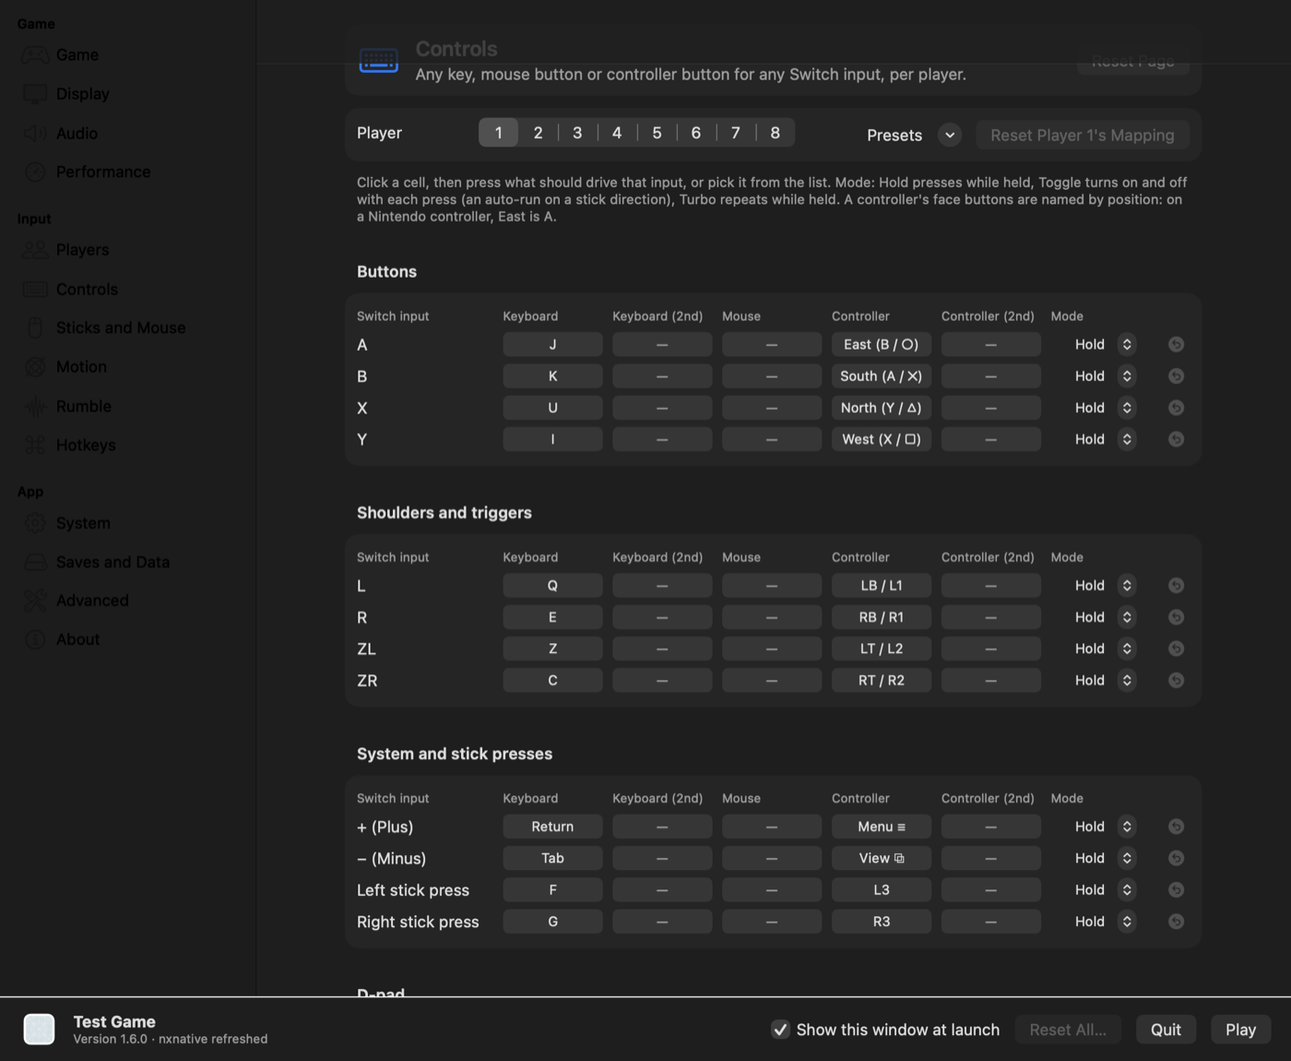
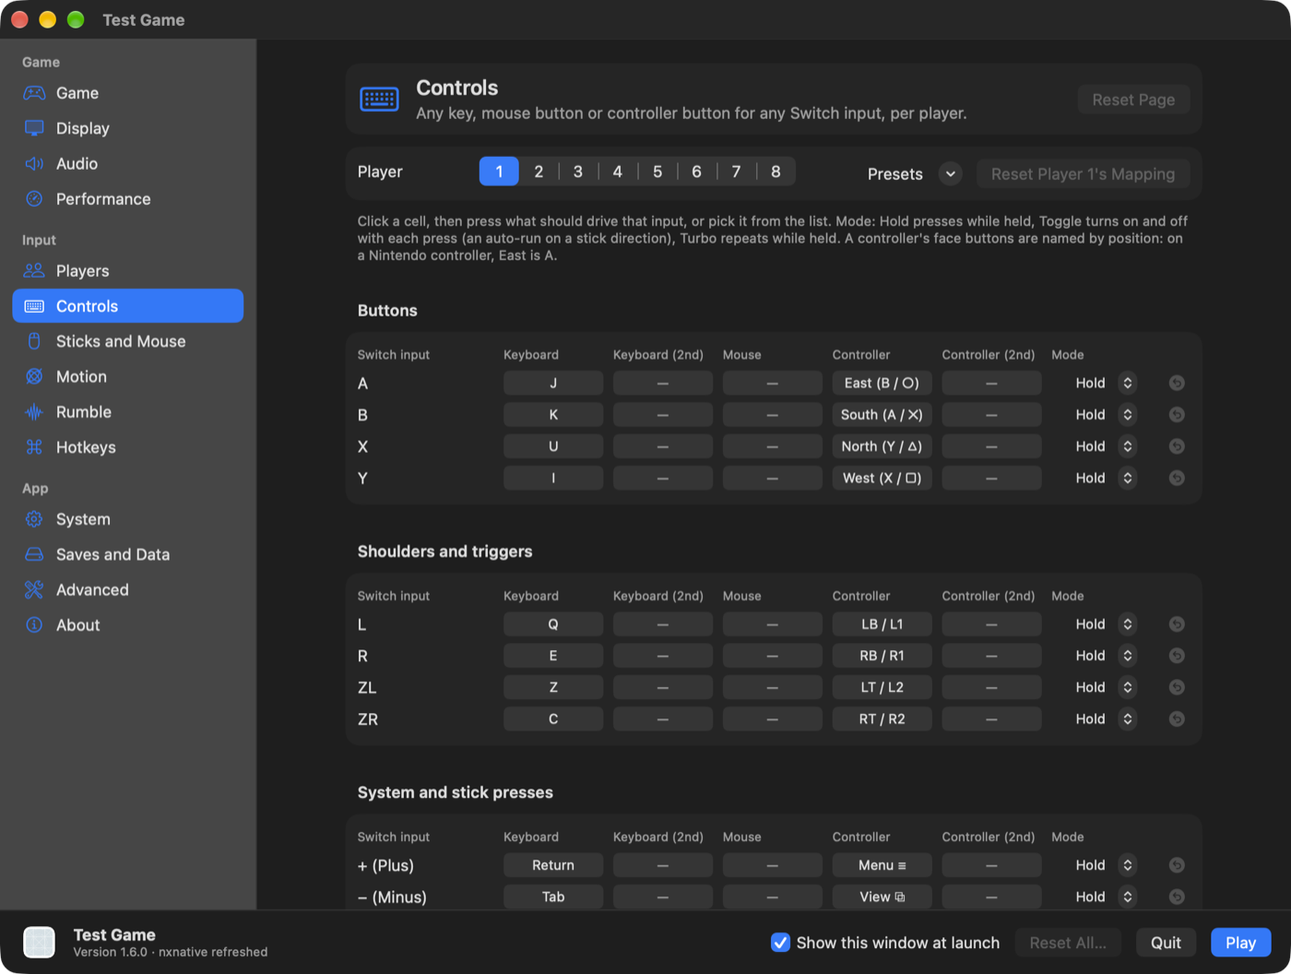
Mac settings window: a sidebar that works, and fixes found driving the real window
- The sidebar is a fixed column of buttons. The NavigationSplitView list never
  selected a page (its rows were tagged Optional(page), which matches no Page
  selection) and put a toolbar on the AppKit window, whose background covered
  the page when the sidebar was hidden. The hosting view bridges no toolbar.
- Return in a one-line text field ends the typing instead of starting the game.
- Binding popover: recording starts with the focus off the search field, typing
  in the search field searches, a click on the prompt records again, Cancel
  works for keys, and the first key, button or scroll is the binding (fast keys
  bound the last one).
- The page column can no longer push the sidebar out of a narrow window; the
  minimum width is 980 points, which every page fits.
- The window's paths follow $HOME as launcher.c's do, so a test's home is used
  instead of the account's.
- The controller menu has no empty separator without a connected controller.
- launcher_layout_check clicks down the sidebar and checks for no toolbar (both
  fail on the old window); env_switches.tsv lists DM_EXTRA_ENV; README
  screenshots are captures of the real window.

diff --git a/dm/mac/Launcher.swift b/dm/mac/Launcher.swift
@@ -21,24 +21,16 @@ struct LauncherView: View {
     @State private var player = 0
     @State private var confirmReset = false
 
-    private var page: Binding<Page?> { Binding(get: { Page(rawValue: pageName) ?? .game }, set: { pageName = ($0 ?? .game).rawValue }) }
     private var current: Page { Page(rawValue: pageName) ?? .game }
 
+    // A fixed sidebar beside the page, not a NavigationSplitView: in this AppKit window that puts a toolbar over the page, and its sidebar can be hidden with no way back
     var body: some View {
         VStack(spacing: 0) {
-            NavigationSplitView {
-                List(selection: page) {
-                    ForEach(Page.sidebar, id: \.0) { section in
-                        Section(section.0) {
-                            ForEach(section.1) { p in
-                                Label(p.title, systemImage: p.symbol).tag(Optional(p))
-                                    .badge(pageChanged(p) ? Text("•") : nil)
-                            }
-                        }
-                    }
-                }
-                .navigationSplitViewColumnWidth(min: 190, ideal: 210, max: 260)
-            } detail: {
+            HStack(spacing: 0) {
+                Sidebar(current: current, changed: pageChanged) { pageName = $0.rawValue }
+                    .frame(width: 210)
+                    .layoutPriority(1)
+                Divider()
                 Form {
                     Section {
                         HStack(spacing: 12) {
@@ -57,6 +49,8 @@ struct LauncherView: View {
                 }
                 .formStyle(.grouped)
                 .id(current)
+                .frame(minWidth: 0, maxWidth: .infinity, maxHeight: .infinity)   // a page wider than the window scrolls in its column, never pushes the sidebar out
+                .clipped()
             }
             Divider()
             HStack(spacing: 12) {
@@ -75,7 +69,7 @@ struct LauncherView: View {
             .padding(.horizontal, 16).padding(.vertical, 10)
             .background(Color(nsColor: .windowBackgroundColor))
         }
-        .frame(minWidth: 900, minHeight: 560)
+        .frame(minWidth: 980, minHeight: 560)
         .onChange(of: m.values) { _, _ in m.persist() }
         .alert("Reset every setting?", isPresented: $confirmReset) {
             Button("Reset All", role: .destructive) { m.reset(); input.reset(); text.reset() }
@@ -166,6 +160,51 @@ struct LauncherView: View {
             }
         }
     }
+}
+
+/// The page list: a button per page on the sidebar material. Not a List: its selection style goes stale in this window (the row selected at the start stays bold)
+struct Sidebar: View {
+    let current: Page
+    let changed: (Page) -> Bool
+    let pick: (Page) -> Void
+    @State private var hover: Page?
+    var body: some View {
+        ScrollView {
+            VStack(alignment: .leading, spacing: 1) {
+                ForEach(Page.sidebar, id: \.0) { section in
+                    Text(section.0).font(.subheadline.weight(.semibold)).foregroundStyle(.secondary)
+                        .padding(.leading, 8).padding(.top, section.0 == Page.sidebar[0].0 ? 2 : 12).padding(.bottom, 3)
+                        .accessibilityAddTraits(.isHeader)
+                    ForEach(section.1) { p in row(p) }
+                }
+            }
+            .padding(.horizontal, 10).padding(.vertical, 10)
+        }
+        .scrollIndicators(.never)
+        .background(SidebarMaterial().ignoresSafeArea())
+    }
+    private func row(_ p: Page) -> some View {
+        let on = p == current
+        return Button { pick(p) } label: {
+            HStack(spacing: 8) {
+                Image(systemName: p.symbol).frame(width: 20).foregroundStyle(on ? Color.white : Color.accentColor)
+                Text(p.title).foregroundStyle(on ? Color.white : Color.primary).lineLimit(1)
+                Spacer(minLength: 4)
+                if changed(p) { Circle().fill(on ? Color.white : Color.accentColor).frame(width: 6, height: 6).help("Changed from the defaults") }
+            }
+            .padding(.horizontal, 8).frame(height: 28).frame(maxWidth: .infinity, alignment: .leading)
+            .background(RoundedRectangle(cornerRadius: 7).fill(on ? Color.accentColor : hover == p ? Color.primary.opacity(0.08) : Color.clear))
+            .contentShape(Rectangle())
+        }
+        .buttonStyle(.plain)
+        .onHover { hover = $0 ? p : (hover == p ? nil : hover) }
+        .accessibilityLabel(changed(p) ? "\(p.title), changed" : p.title)
+        .accessibilityAddTraits(on ? .isSelected : [])
+    }
+}
+private struct SidebarMaterial: NSViewRepresentable {
+    func makeNSView(context: Context) -> NSVisualEffectView { let v = NSVisualEffectView(); v.material = .sidebar; v.blendingMode = .behindWindow; v.state = .followsWindowActiveState; return v }
+    func updateNSView(_ v: NSVisualEffectView, context: Context) {}
 }
 
 /// Cloud saves: a folder the save is synced through (dm/host/save_sync.h), the one the iPhone app picks in its launcher's Cloud saves section. It is kept in this app's
@@ -340,6 +379,19 @@ struct AboutSection: View {
     }
 }
 
+// Return in a one-line text field (the player name, a profile's name) ends the editing there: a text field otherwise hands Return on to the window's default button, Play,
+// and the game starts from a name being typed. Return anywhere else still plays, and the multi-line box takes it as a new line
+private final class LauncherWindow: NSWindow {
+    override func sendEvent(_ e: NSEvent) {
+        if e.type == .keyDown, e.keyCode == 36 || e.keyCode == 76, e.modifierFlags.intersection([.command, .option, .control, .shift]).isEmpty,
+           let t = firstResponder as? NSTextView, t.isFieldEditor {
+            makeFirstResponder(nil)
+            return
+        }
+        super.sendEvent(e)
+    }
+}
+
 private final class Launcher: NSObject, NSApplicationDelegate, NSWindowDelegate {
     let model: LauncherModel
     let input = InputStore()
@@ -362,13 +414,15 @@ private final class Launcher: NSObject, NSApplicationDelegate, NSWindowDelegate 
         edit.addItem(withTitle: "Select All", action: #selector(NSText.selectAll(_:)), keyEquivalent: "a")
         editItem.submenu = edit; menu.addItem(editItem)
         NSApp.mainMenu = menu
-        let w = NSWindow(contentRect: NSRect(x: 0, y: 0, width: 1060, height: 720), styleMask: [.titled, .closable, .miniaturizable, .resizable], backing: .buffered, defer: false)
+        let w = LauncherWindow(contentRect: NSRect(x: 0, y: 0, width: 1060, height: 720), styleMask: [.titled, .closable, .miniaturizable, .resizable], backing: .buffered, defer: false)
         w.title = name; w.isReleasedWhenClosed = false; w.delegate = self
-        w.contentMinSize = NSSize(width: 900, height: 560)
+        w.contentMinSize = NSSize(width: 980, height: 560)
         w.setFrameAutosaveName("nxnative refreshed settings")
         window = w
         if w.frame.origin == .zero, let screen = w.screen ?? NSScreen.main { w.setFrameTopLeftPoint(NSPoint(x: screen.visibleFrame.midX - w.frame.width / 2, y: screen.visibleFrame.maxY - 40)) }
-        w.contentView = NSHostingView(rootView: LauncherView(m: model, input: input, text: text, done: { [weak self] in self?.finish($0) }))
+        let host = NSHostingView(rootView: LauncherView(m: model, input: input, text: text, done: { [weak self] in self?.finish($0) }))
+        host.sceneBridgingOptions = []   // the window keeps its own title and gets no toolbar from SwiftUI
+        w.contentView = host
         // no activation and no ordering in front of another app's windows: LaunchServices activates an app opened from Finder or the Dock (applicationDidBecomeActive), open -g does not
         if NSApp.isActive { w.makeKeyAndOrderFront(nil) } else { w.orderBack(nil) }
     }

diff --git a/dm/mac/InputViews.swift b/dm/mac/InputViews.swift
@@ -92,8 +92,11 @@ struct PlayersPage: View {
                             Text("None").tag("none")
                             Divider()
                             ForEach(1...8, id: \.self) { n in Text("The \(Self.ordinal(n)) controller connected").tag("index:\(n)") }
-                            Divider()
-                            ForEach(names(including: p.controller), id: \.self) { n in Text(n).tag("name:" + n) }
+                            let named = names(including: p.controller)
+                            if !named.isEmpty {
+                                Divider()
+                                ForEach(named, id: \.self) { n in Text(n).tag("name:" + n) }
+                            }
                         }
                         .labelsHidden().disabled(input.config.merge).fixedSize()
                         ResetButton(enabled: p.keyboard != def.keyboard || p.mouse != def.mouse || p.controller != def.controller) {
@@ -161,8 +164,10 @@ final class Recorder: ObservableObject {
         switch src {
         case .key:
             monitor = NSEvent.addLocalMonitorForEvents(matching: [.keyDown, .flagsChanged]) { [weak self] e in
-                if e.type == .flagsChanged { if KeyNames.modifierDown(e) { self?.result = .key(Int(e.keyCode)) }; return nil }
-                if !e.isARepeat { self?.result = .key(Int(e.keyCode)) }
+                if let t = e.window?.firstResponder as? NSTextView, t.isFieldEditor { return e }   // typing in the search field searches
+                guard let self, self.result == nil else { return nil }   // the first key is the binding; keys after it, while the popover closes, go nowhere
+                if e.type == .flagsChanged { if KeyNames.modifierDown(e) { self.result = .key(Int(e.keyCode)) }; return nil }
+                if !e.isARepeat { self.result = .key(Int(e.keyCode)) }
                 return nil
             }
         case .pad:
@@ -188,15 +193,17 @@ struct MouseCaptureView: NSViewRepresentable {
     let report: (String) -> Void
     final class V: NSView {
         var report: ((String) -> Void)?
-        override func mouseDown(with e: NSEvent) { report?("left") }
-        override func rightMouseDown(with e: NSEvent) { report?("right") }
+        private var reported = false   // the first button or scroll is the binding, not the rest of a double click or of a scroll's events
+        private func send(_ code: String) { if !reported { reported = true; report?(code) } }
+        override func mouseDown(with e: NSEvent) { send("left") }
+        override func rightMouseDown(with e: NSEvent) { send("right") }
         override func otherMouseDown(with e: NSEvent) {
             let n = e.buttonNumber
-            if n == 2 { report?("middle") } else if n >= 3 && n <= 7 { report?("button\(n + 1)") }
+            if n == 2 { send("middle") } else if n >= 3 && n <= 7 { send("button\(n + 1)") }
         }
         override func scrollWheel(with e: NSEvent) {
             let s: CGFloat = e.isDirectionInvertedFromDevice ? -1 : 1, dy = e.scrollingDeltaY * s, dx = e.scrollingDeltaX * s
-            if abs(dy) > 0.5 { report?(dy > 0 ? "wheel_up" : "wheel_down") } else if abs(dx) > 0.5 { report?(dx > 0 ? "wheel_left" : "wheel_right") }
+            if abs(dy) > 0.5 { send(dy > 0 ? "wheel_up" : "wheel_down") } else if abs(dx) > 0.5 { send(dx > 0 ? "wheel_left" : "wheel_right") }
         }
         override func acceptsFirstMouse(for event: NSEvent?) -> Bool { true }
     }
@@ -212,12 +219,18 @@ struct BindingEditor: View {
     let cancel: () -> Void
     @StateObject private var rec = Recorder()
     @State private var search = ""
+    @FocusState private var searching: Bool
     var body: some View {
         VStack(alignment: .leading, spacing: 10) {
             Text(title).font(.headline)
             Group {
                 switch source {
-                case .key: prompt("Press a key now", "Any key, including Escape and the modifier keys on their own.")
+                case .key:   // keys record unless the search field has the focus; a click on the prompt takes it back
+                    if searching {
+                        Button { searching = false } label: { prompt("Typing searches the list", "Click here to record a key instead.", busy: false) }.buttonStyle(.plain)
+                    } else {
+                        prompt("Press a key now", "Any key, including Escape and the modifier keys on their own.")
+                    }
                 case .pad: prompt("Press a button or move a stick on a controller", GCController.controllers().isEmpty ? "No controller is connected: pick from the list below." : "Any connected controller.")
                 case .mouse:
                     ZStack {
@@ -232,7 +245,7 @@ struct BindingEditor: View {
                     .frame(height: 90)
                 }
             }
-            TextField("Search", text: $search).textFieldStyle(.roundedBorder)
+            TextField("Search", text: $search).textFieldStyle(.roundedBorder).focused($searching)
             List {
                 ForEach(groups, id: \.self) { g in
                     Section(g) {
@@ -248,17 +261,21 @@ struct BindingEditor: View {
             HStack {
                 Button("Clear", role: .destructive) { done(nil) }.disabled(current == nil)
                 Spacer()
-                Button("Cancel", action: cancel).keyboardShortcut(.cancelAction).disabled(source == .key)
+                Button("Cancel", action: cancel).keyboardShortcut(.cancelAction)   // while recording, Escape is a key to record: the recorder takes it before the shortcut
             }
         }
         .padding(14).frame(width: 340)
-        .onAppear { rec.start(source) }
+        .onAppear {
+            rec.start(source)
+            // the popover gives its text field the focus when it opens, and keys would search instead of recording
+            DispatchQueue.main.async { searching = false; if let w = NSApp.keyWindow, (w.firstResponder as? NSTextView)?.isFieldEditor == true { w.makeFirstResponder(nil) } }
+        }
         .onDisappear { rec.stop() }
         .onChange(of: rec.result) { _, r in if let r { done(r) } }
     }
-    private func prompt(_ t: String, _ sub: String) -> some View {
+    private func prompt(_ t: String, _ sub: String, busy: Bool = true) -> some View {
         HStack(spacing: 10) {
-            ProgressView().controlSize(.small)
+            if busy { ProgressView().controlSize(.small) } else { Image(systemName: "record.circle").foregroundStyle(.tint) }
             VStack(alignment: .leading, spacing: 2) { Text(t).font(.callout.weight(.medium)); Text(sub).font(.caption).foregroundStyle(.secondary) }
         }
         .padding(10).frame(maxWidth: .infinity, alignment: .leading).background(RoundedRectangle(cornerRadius: 8).fill(Color.accentColor.opacity(0.12)))

diff --git a/dm/ios/tests/launcher_layout_check.swift b/dm/ios/tests/launcher_layout_check.swift
@@ -1,4 +1,4 @@
-// nxnative refreshed's Mac settings window (dm/mac/Launcher.swift and its pages), run by test_launcher_storage.py without showing a window: every page lays out, each page's rows
+// nxnative refreshed's Mac settings window (dm/mac/Launcher.swift and its pages), run by test_launcher_storage.py without showing a window: every page lays out, clicks down the sidebar open every page and the window gets no toolbar, each page's rows
 // reset, the input mapping's defaults are the host's (the input.json the window writes for them is dm/host/tests/input_default.json, which t_input_json.m reads as im_default),
 // stored mappings merge onto the defaults, the quick setups and presets keep two keyboard players apart, and the text settings reach the environment.
 import AppKit
@@ -21,6 +21,32 @@ func checkLauncherLayout(_ model: LauncherModel, defaults: UserDefaults) -> Int 
             expect(view.fittingSize.width > 0, "page \(p.title) lays out")
         }
     }
+
+    // the sidebar in a window: no toolbar (a NavigationSplitView put one over the page in an AppKit window), and clicks down the sidebar open every page in its order
+    // (an Optional tag on a List row matched nothing: a click selected no page). Mouse events through the window, as AppKit hands a click to the view
+    defaults.set(Page.game.rawValue, forKey: "window.page")
+    let window = NSWindow(contentRect: NSRect(x: -4000, y: -4000, width: 1060, height: 720), styleMask: [.titled, .closable, .resizable], backing: .buffered, defer: false)
+    window.isReleasedWhenClosed = false
+    window.contentView = NSHostingView(rootView: LauncherView(m: model, input: input, text: text, done: { _ in }).defaultAppStorage(defaults))
+    window.orderFrontRegardless()
+    RunLoop.current.run(until: Date().addingTimeInterval(0.3))
+    expect(window.toolbar == nil, "the window gets no toolbar")
+    func click(x: CGFloat, top: CGFloat) {   // a point of the content, from its top left
+        let cv = window.contentView!, loc = cv.convert(NSPoint(x: x, y: cv.isFlipped ? top : cv.bounds.height - top), to: nil)
+        for t in [NSEvent.EventType.leftMouseDown, .leftMouseUp] {
+            window.sendEvent(NSEvent.mouseEvent(with: t, location: loc, modifierFlags: [], timestamp: ProcessInfo.processInfo.systemUptime, windowNumber: window.windowNumber,
+                                                context: nil, eventNumber: 0, clickCount: 1, pressure: 1)!)
+        }
+        RunLoop.current.run(until: Date().addingTimeInterval(0.03))
+    }
+    var visited: [Page] = []
+    for top in stride(from: 4.0, to: 680, by: 9) {
+        click(x: 100, top: top)
+        if let p = Page(rawValue: defaults.string(forKey: "window.page") ?? ""), visited.last != p { visited.append(p) }
+    }
+    expect(visited == Page.sidebar.flatMap(\.1), "clicks down the sidebar open every page in its order (\(visited.map(\.rawValue).joined(separator: " ")))")
+    window.close()
+
     expect(Set(model.settings.map(\.page)).isSubset(of: Set(Page.allCases)) && model.settings.allSatisfy { $0.page != .about },
            "every row of the Mac list has a page")
     expect(model.settings.first { $0.env == "DM_RUMBLE" }?.page == .rumble && model.settings.first { $0.env == "DM_FULLSCREEN" }?.page == .display, "rows go to their pages")

diff --git a/dm/mac/RefreshedSettings.swift b/dm/mac/RefreshedSettings.swift
@@ -337,13 +337,14 @@ struct EnvSections: View {
     }
 }
 
-// Paths of this game's data (launcher.c makes the same ones)
+// Paths of this game's data (launcher.c makes the same ones, under $HOME as it does: a test's home, not the account's)
 enum AppPaths {
     static var titleID: String { Bundle.main.object(forInfoDictionaryKey: "DMTitleID") as? String ?? "0000000000000000" }
-    static var support: URL { FileManager.default.homeDirectoryForCurrentUser.appendingPathComponent("Library/Application Support/nxnative/\(titleID)") }
+    static var home: URL { ProcessInfo.processInfo.environment["HOME"].flatMap { $0.isEmpty ? nil : URL(fileURLWithPath: $0) } ?? FileManager.default.homeDirectoryForCurrentUser }
+    static var support: URL { home.appendingPathComponent("Library/Application Support/nxnative/\(titleID)") }
     static var save: URL { URL(fileURLWithPath: ProcessInfo.processInfo.environment["DM_SAVE"] ?? support.appendingPathComponent("save").path) }
-    static var logs: URL { FileManager.default.homeDirectoryForCurrentUser.appendingPathComponent("Library/Logs/nxnative") }
+    static var logs: URL { home.appendingPathComponent("Library/Logs/nxnative") }
     static var log: URL { logs.appendingPathComponent("\(titleID).log") }
     static var envFile: URL { support.appendingPathComponent("env.txt") }
-    static var profiles: URL { FileManager.default.homeDirectoryForCurrentUser.appendingPathComponent("Library/Application Support/nxnative/profiles") }
+    static var profiles: URL { home.appendingPathComponent("Library/Application Support/nxnative/profiles") }
 }

diff --git a/docs/settings.md b/docs/settings.md
@@ -203,7 +203,7 @@ A Mac app ([A Mac app](development.md#a-mac-app)) shows its settings in a window
 
 Every option has a reset button beside it (it is greyed out while the option is at its default, and the line under the option names the default once it has changed). Every page has **Reset Page**, and **Reset All…** at the bottom brings back every default after asking. A dot in the sidebar marks a page with changes. Changes are kept as you make them, so **Quit** keeps them too. A setting fixed by an `env.txt` or by the program that started the app is shown greyed out.
 
-Click **Play** (or press Return) to start the game. **Quit**, ⌘Q or closing the window ends the app without the game. The app remembers your choices for that game, and a game started without the window, from a front end or with the window turned off, uses them too ([Saved choices](frontends.md#saved-choices)).
+Click **Play** (or press Return, outside a text field: there Return only ends the typing) to start the game. **Quit**, ⌘Q or closing the window ends the app without the game. The app remembers your choices for that game, and a game started without the window, from a front end or with the window turned off, uses them too ([Saved choices](frontends.md#saved-choices)).
 
 Turn off **Show this window at launch** to start the game at once with your choices. Hold Option while the app opens to see the window again. `DM_LAUNCHER=0` in the app's `env.txt` (`~/Library/Application Support/nxnative/<title ID>/env.txt`) or in its environment, or opening it with `open <app> --args --no-launcher`, also skips the window; your choices still apply. `DM_SAVED_CHOICES=0` starts with the tested defaults instead.
 
@@ -211,7 +211,7 @@ Turn off **Show this window at launch** to start the game at once with your choi
 
 **Players** decides which devices each of the eight players uses: the keyboard, the mouse, and a controller. The controller can be **Automatic** (the next free one), **None**, **the n-th controller connected**, or a **controller by name**. Controllers are matched by name first, then by connection order, then in the automatic order, where a controller that reconnects gets its player back. **Every controller plays Player 1** merges them all. The quick setups cover the usual cases: each controller is a player with the keyboard on Player 1 (the default, as in nxnative), the keyboard on its own as Player 1, everything on Player 1, and two players on one keyboard. The page lists the connected controllers, with motion, rumble and battery, the player each will get, and a **Rumble** button to tell them apart.
 
-**Controls** maps every Switch input for the chosen player: A, B, X, Y, L, R, ZL, ZR, +, −, both stick presses, the D-pad, each direction of both sticks, Walk (the left stick at a set deflection while held), Shake, Tilt forward/back/left/right, Turn left/right, and Recenter motion. Each input takes two keys, a mouse button or wheel direction, and two controller elements. Controller elements are named by position (on a Nintendo controller, East is A) and include the paddles and the touchpad. Click a cell and press the key, button or stick, or pick one from the list. Any key works, the modifier keys on their own included. A conflict (one key on two inputs, or taken by a hotkey) is marked. Each input can be **Hold**, **Toggle** or **Turbo**. **Presets** applies nxnative's defaults, Switch or Xbox face-button layouts, a keyboard-and-mouse layout with mouse camera, either half of the keyboard, or clears the keyboard or the controller. **Copy from** takes another player's mapping.
+**Controls** maps every Switch input for the chosen player: A, B, X, Y, L, R, ZL, ZR, +, −, both stick presses, the D-pad, each direction of both sticks, Walk (the left stick at a set deflection while held), Shake, Tilt forward/back/left/right, Turn left/right, and Recenter motion. Each input takes two keys, a mouse button or wheel direction, and two controller elements. Controller elements are named by position (on a Nintendo controller, East is A) and include the paddles and the touchpad. Click a cell and press the key, button or stick (the first one pressed counts), or pick one from the list; typing in the list's search field searches instead of recording. Any key works, the modifier keys on their own included. A conflict (one key on two inputs, or taken by a hotkey) is marked. Each input can be **Hold**, **Toggle** or **Turbo**. **Presets** applies nxnative's defaults, Switch or Xbox face-button layouts, a keyboard-and-mouse layout with mouse camera, either half of the keyboard, or clears the keyboard or the controller. **Copy from** takes another player's mapping.
 
 Input profiles (**Saves and Data**) keep every player's controls, devices, sticks, mouse, motion, rumble and hotkeys in `~/Library/Application Support/nxnative/profiles/`, where every game can load them.
 
